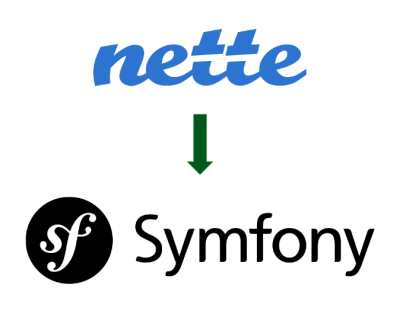
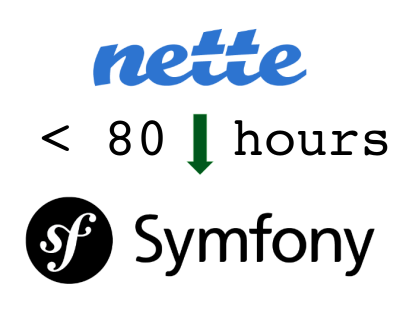
images

Changed region(s): [[0.57, 0.3726, 0.99, 0.5159], [0.27, 0.3726, 0.42, 0.5159], [0.09, 0.4013, 0.18, 0.4873]]

diff --git a/statie/source/_posts/2019/2019-04-20-how-we-migrated-54-357-lines-of-code-nette-to-symfony-in-2-people-under-80-hours.md b/statie/source/_posts/2019/2019-04-20-how-we-migrated-54-357-lines-of-code-nette-to-symfony-in-2-people-under-80-hours.md
@@ -1,13 +1,19 @@
 ---
 id: 79
-title: "How we Migrated 54 Lines of Code from Nette to Symfony in 2 People under 80 Hours"
+title: "How we Migrated 54 357 lines of Code from Nette to Symfony in 2 People under 80 Hours"
 perex: |
-    The code, which would take us 3 months to rewrite 2 years ago, has been overwritten in less than 3 weeks with the help of automated tools today. We'll show you how we went about it.
+    It would take us 3 full-time months to rewrite this code in 2017. In February 2019 we did it in less than 3-week span with the help of automated tools. Why and how? 
 author: 1
-tweet: "New Post on #pehapkari Blog: How we Migrated 54 Lines of Code from #nettefw to #symfony in 2 People under 80 Hours   #casestudy"
+tweet: "New Post on #pehapkari Blog: How we Migrated 54 357 Lines of Code from #nettefw to #symfony in 2 People under 80 Hours   #casestudy"
 ---
 
-*This post was originally published [in Czech on Zdrojak.cz](https://www.zdrojak.cz/clanky/50k-radku-z-nette-do-symfony/), where it got huge attention of Czech PHP community and hit amazing 54 comments (a possible record). But when I talk about this migration with my English speaking PHP friends, they don't believe me and want more - who, how, when, what exactly? This post is for them.*
+*This post was originally published [in Czech on Zdrojak.cz](https://www.zdrojak.cz/clanky/50k-radku-z-nette-do-symfony/), where it got huge attention of Czech PHP community and hit amazing 54 comments (a possible record). But when I talk about this migration with my English speaking PHP friends, it seems crazy to them and they want to hear details - who, how, when, what exactly?* 
+
+*This post is for you (and for you of course, if you haven't read it on Zdroják).*
+
+<div class="text-center">
+<img src="/assets/images/posts/2019/fw-migration/nette-to-symfony.png">
+</div>
 
 ## What Have We Migrated?
 
@@ -15,11 +21,13 @@ Backend of [Entry.do](https://entry.do/) project - API application built on cont
 
 How big is it? If we don't count tests, migration, fixtures, etc., the application has **270 PHP files** in the length of **54 357 lines** (using [phploc](https://github.com/sebastianbergmann/phploc)).
 
-How many routes does it have? 20...? 50...? **151!**
+How many unique routes does it have? 20...? 50...? **151!** 
+Just to have an idea, the pehapkari.cz website has 35 routes.
 
 ## Why?
 
-The application was in Nette, which worked and met the technical requirements. The main motivation for the transcription was the dying ecosystem and the integration of Symfony.
+The application was written in Nette, which worked and met the technical requirements. The main motivation for the transcription was the dying ecosystem and that over-integration of Symfony. What does "dying ecosystem" mean? Nette released just 1 minor version since July 2016, while Symfony had 6 releases during the same period.
+ 
 
 <div class="text-center mb-4">
     <img src="/assets/images/posts/2019/fw-migration/extensions.png">
@@ -35,7 +43,7 @@ The application was in Nette, which worked and met the technical requirements. T
 
 Why use unmaintained integrations of [Kdyby](https://github.com/kdyby) and [Zenify](https://github.com/zenify), that only integrate Symfony to Nette\DI, if Symfony is already there? Last new minor version of Nette was published 3 years ago. Symfony releases new minor version every 6 months with new features will make your work easier.
 
-## How did we do that?
+## How?
 
 I offered [Honza Mikeš](http://github.com/lexinek) deal he couldn't refuse: "We will give it a week and if we stuck, we'll give up". On the January 27th, we met with his Nette application and on February 13th the Symfony application went to the staging server. In less than 17 days we were done and on February 14th we celebrated a new production application in addition to Valentine's Day.
 
@@ -314,4 +322,10 @@ You can use your own PHP_CodeSniffer and PHP-CS-Fixer set. We used the [Rector-p
 vendor/bin/ecs check app src --config vendor/rector/rector/ecs-after-rector.yaml
 ```
 
-And so we migrated a four-year Nette app of 54 357 lines under 80 hours to Symfony and put it into production.
+## It's not about Work, It's about Knowledge 
+
+And so we migrated a four years old Nette application of 54 357 lines under 80 hours to Symfony and put it into production. The most of the time took us debugging of events and writing migration tools. Now **the same application would take us (or you) 10 hours top to migrate**.
+
+<br>
+
+As you can see, any application can be migrate from one framework to another in less than month nowadays. And it's getting faster everyday :)
